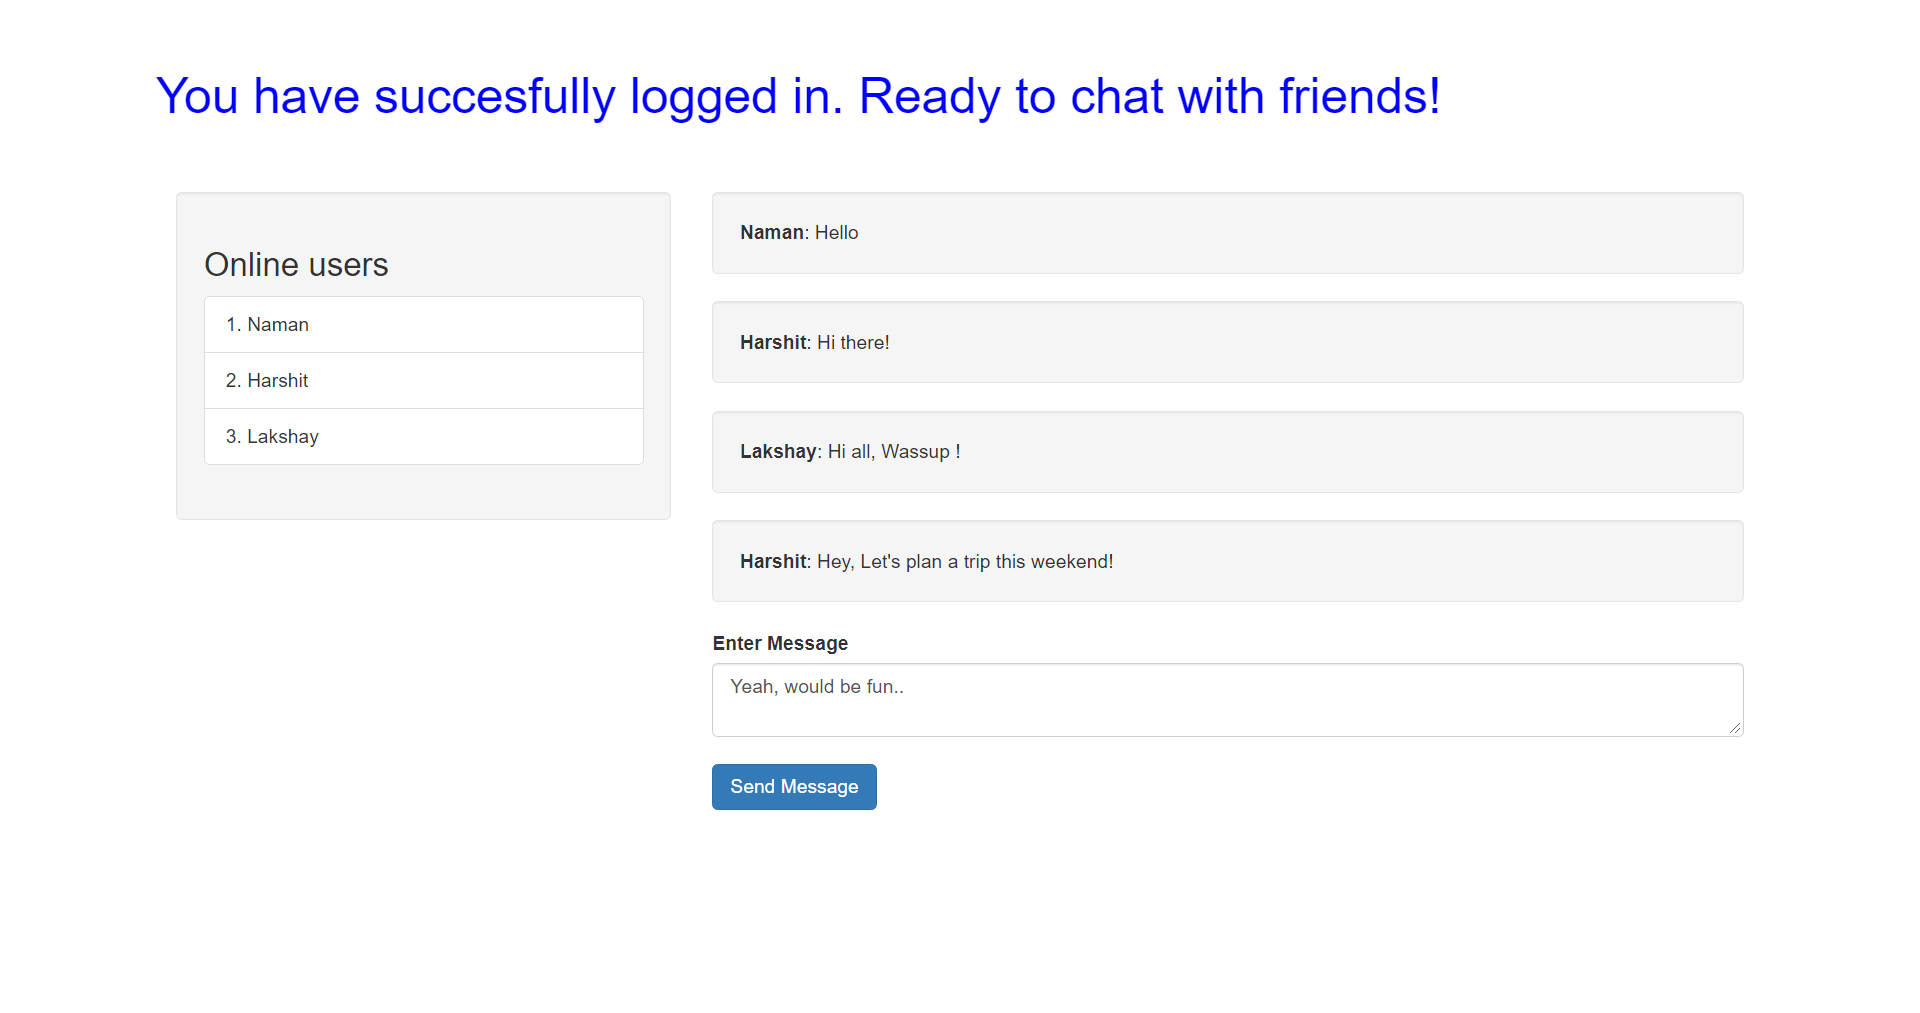
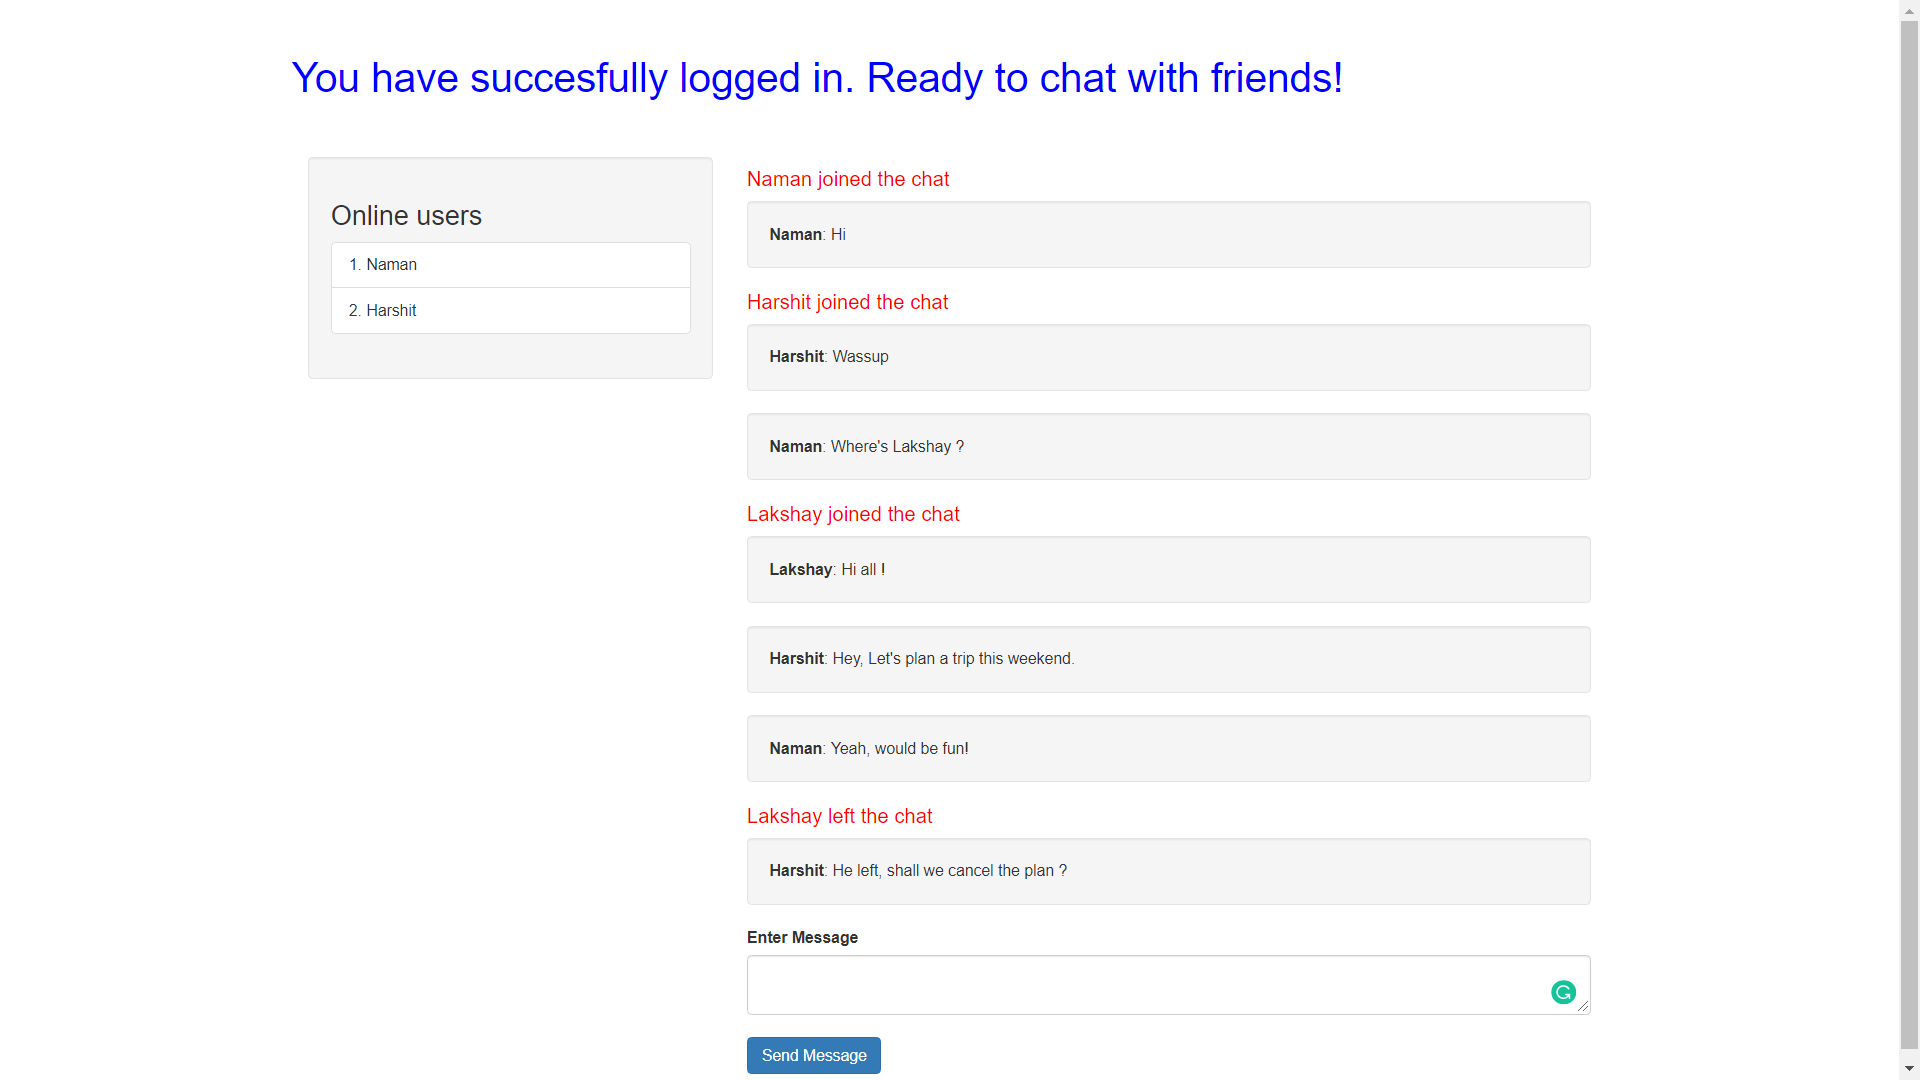
New features

diff --git a/main.html b/main.html
@@ -46,6 +46,7 @@
 			<!---->
 			<div class="col-md-8" id="q">
 				<div class="chat" id="chat"></div>
+				<div id="join"></div>
 				<form id="msgForm">
 					<div class="form-group">
 						<label>Enter Message</label>
@@ -53,7 +54,7 @@
 						<br />
 						<input type="submit" class="btn btn-primary" value="Send Message" required />
 				</form>
-			</div>
+			</div></div>
 			<!---->
 	</div>
 </div>
@@ -65,6 +66,7 @@
 			var $message = $('#message');
 			var $chat = $('#chat');
 
+			var $join = $('#join');
 			var $messageArea = $('#messageArea');
 			var $userForm = $('#userForm');
 			var $users = $('#users');
@@ -83,16 +85,36 @@
 				$chat.append('<div class="well"><b>' + data.user + '</b>:  '+data.msg+'</div>');
 			});
 
+			socket.on('new person', function(data){
+				$chat.append('<div> <h4 style="color:red;">'+ data.name + ' joined the chat</h4></div>');
+			});
+
+			socket.on('delete user', function(data){
+				$chat.append('<div> <h4 style="color:red;">'+ data.per + ' left the chat</h4></div>');
+			});
+
 			$userForm.submit(function(e){
 				e.preventDefault();
+
 				socket.emit('new user', $username.val(), function(data){
-					if(data){
+
+			    // io.sockets.emit('userjoinedthechat', data +" : has joined the chat ");
+				
+			    	if(data){
 						$userFormArea.hide();
 						$messageArea.show();
 					}
 				});
 				$username.val('');
 			});
+
+			// socket.on('join', function(userNickname) {
+
+			//     user = userNickname;
+			//     users.push(userNickname);
+			//     io.sockets.emit('userjoinedthechat', userNickname +" : has joined the chat ");
+			//     console.log("User list: ", users);
+			// });
 
 			socket.on('get_users', function(data){
 
@@ -103,6 +125,16 @@
 				}
 				$users.html(html);
 			});
+
+			// socket.on('join_user', function(data){
+
+			// 	console.log(data + " joined");
+			// 	var html = '';
+			// 	html += data + " has joined the chat!";
+			// 	$join.html(html);
+			// });
+
+
 		});
 	</script>
 </body>

diff --git a/server.js b/server.js
@@ -6,6 +6,7 @@ var io = require('socket.io').listen(server);
 users = [];
 connections = [];
 
+var name;
 app.get('/', function(req, res){
 	res.sendFile(__dirname + '/main.html');
 });
@@ -17,9 +18,12 @@ io.sockets.on('connection', function(socket){
 	/* When a user disconnects from the chat */
 	socket.on('disconnect', function(data){
 
+		io.sockets.emit('delete user', {per: socket.username});
 		users.splice(users.indexOf(socket.username), 1);
+
 		updateUsernames();
 		connections.splice(connections.indexOf(socket), 1);
+
 		console.log("Disconnected: %s sockets connected", connections.length);		
 	});
 
@@ -34,14 +38,23 @@ io.sockets.on('connection', function(socket){
 	socket.on('new user', function(data, callback){
 		callback(true);
 		console.log(data);
+	    // console.log(data +" : has joined the chat ");
+
 		socket.username = data;
 		users.push(data);
 		updateUsernames();
+
+		// name = data;
+		// console.log('a');
+		io.sockets.emit('new person', {name: data});
 	});
 
 	function updateUsernames(){
 		io.sockets.emit('get_users', users);
 	}
+
+	// function joinUser(u){
+	// }
 });
 
 server.listen(3000);
